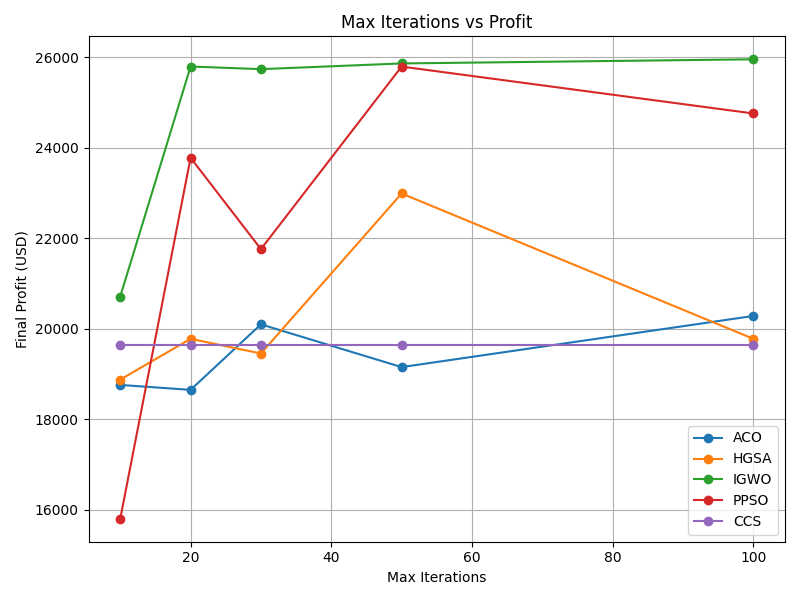
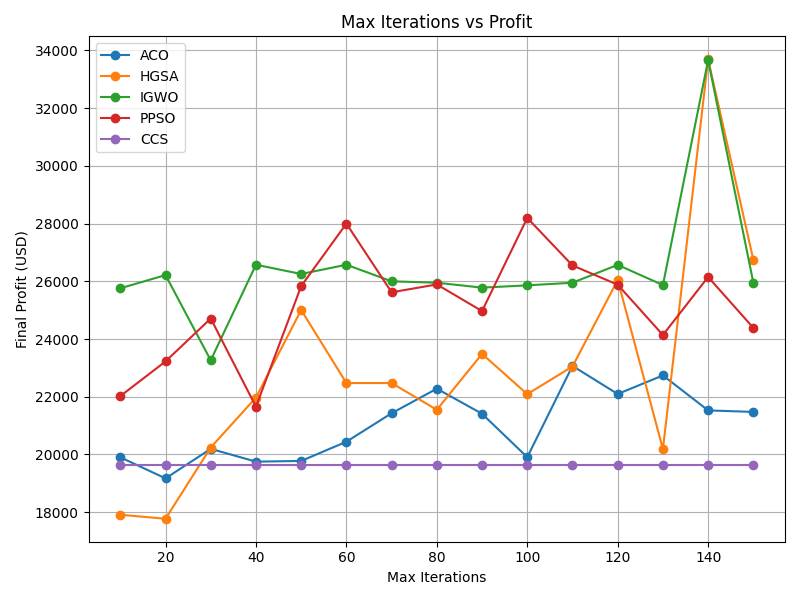
hyperparameters

diff --git a/visualisation/hyperparameter_impact.py b/visualisation/hyperparameter_impact.py
@@ -43,7 +43,7 @@ def main():
                            end=DATA_CFG["train_end"])
 
     # Constants
-    fixed_pop_size = 30
+    fixed_pop_size = 60
     fixed_max_iter = 30
     fixed_max_time = None
 
@@ -60,25 +60,25 @@ def main():
     }
 
     # ------ 1. Population Size Test ------
-    pop_sizes = [10, 20, 30, 40, 50, 60]
-    profits_popsize = {name: [] for name in optimizers_to_test}
+    # pop_sizes = [10, 20, 30, 40, 50, 60, 70, 80, 90, 100]
+    # profits_popsize = {name: [] for name in optimizers_to_test}
 
-    for pop_size in pop_sizes:
-        print(f"Testing Population Size = {pop_size}")
-        for name, optimizer in optimizers_to_test.items():
-            profit = run_optimizer_with_config(optimizer, bot, pop_size, fixed_max_iter, None)
-            profits_popsize[name].append(profit)
+    # for pop_size in pop_sizes:
+    #     print(f"Testing Population Size = {pop_size}")
+    #     for name, optimizer in optimizers_to_test.items():
+    #         profit = run_optimizer_with_config(optimizer, bot, pop_size, fixed_max_iter, None)
+    #         profits_popsize[name].append(profit)
 
-    plot_and_save(
-        pop_sizes,
-        profits_popsize,
-        x_label="Population Size",
-        title="Population Size vs Profit",
-        filename="population_size_vs_profit.png"
-    )
+    # plot_and_save(
+    #     pop_sizes,
+    #     profits_popsize,
+    #     x_label="Population Size",
+    #     title="Population Size vs Profit",
+    #     filename="population_size_vs_profit.png"
+    # )
 
     # ------ 2. Max Iterations Test ------
-    max_iters = [10, 20, 30, 50, 100]
+    max_iters = [10, 20, 30, 40, 50, 60, 70, 80, 90, 100, 110, 120, 130, 140, 150]
     profits_maxiter = {name: [] for name in optimizers_to_test}
 
     for max_iter in max_iters:
